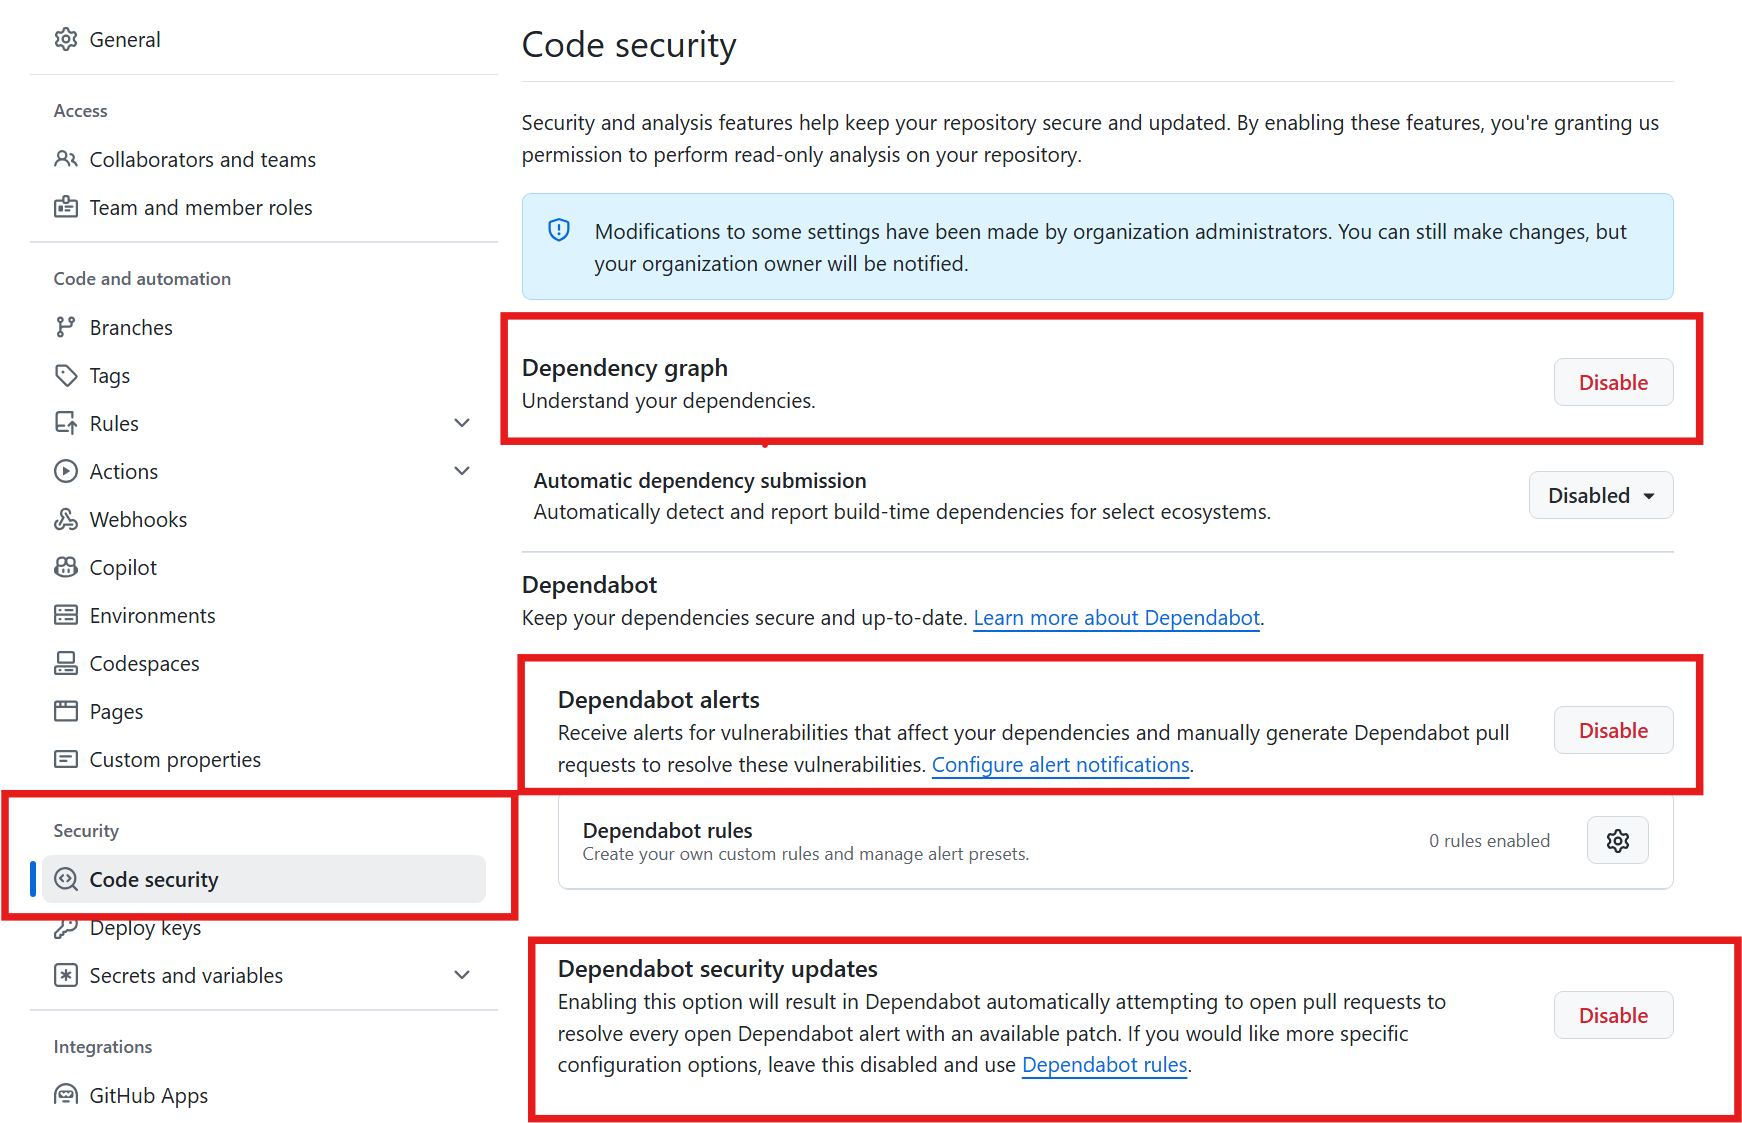
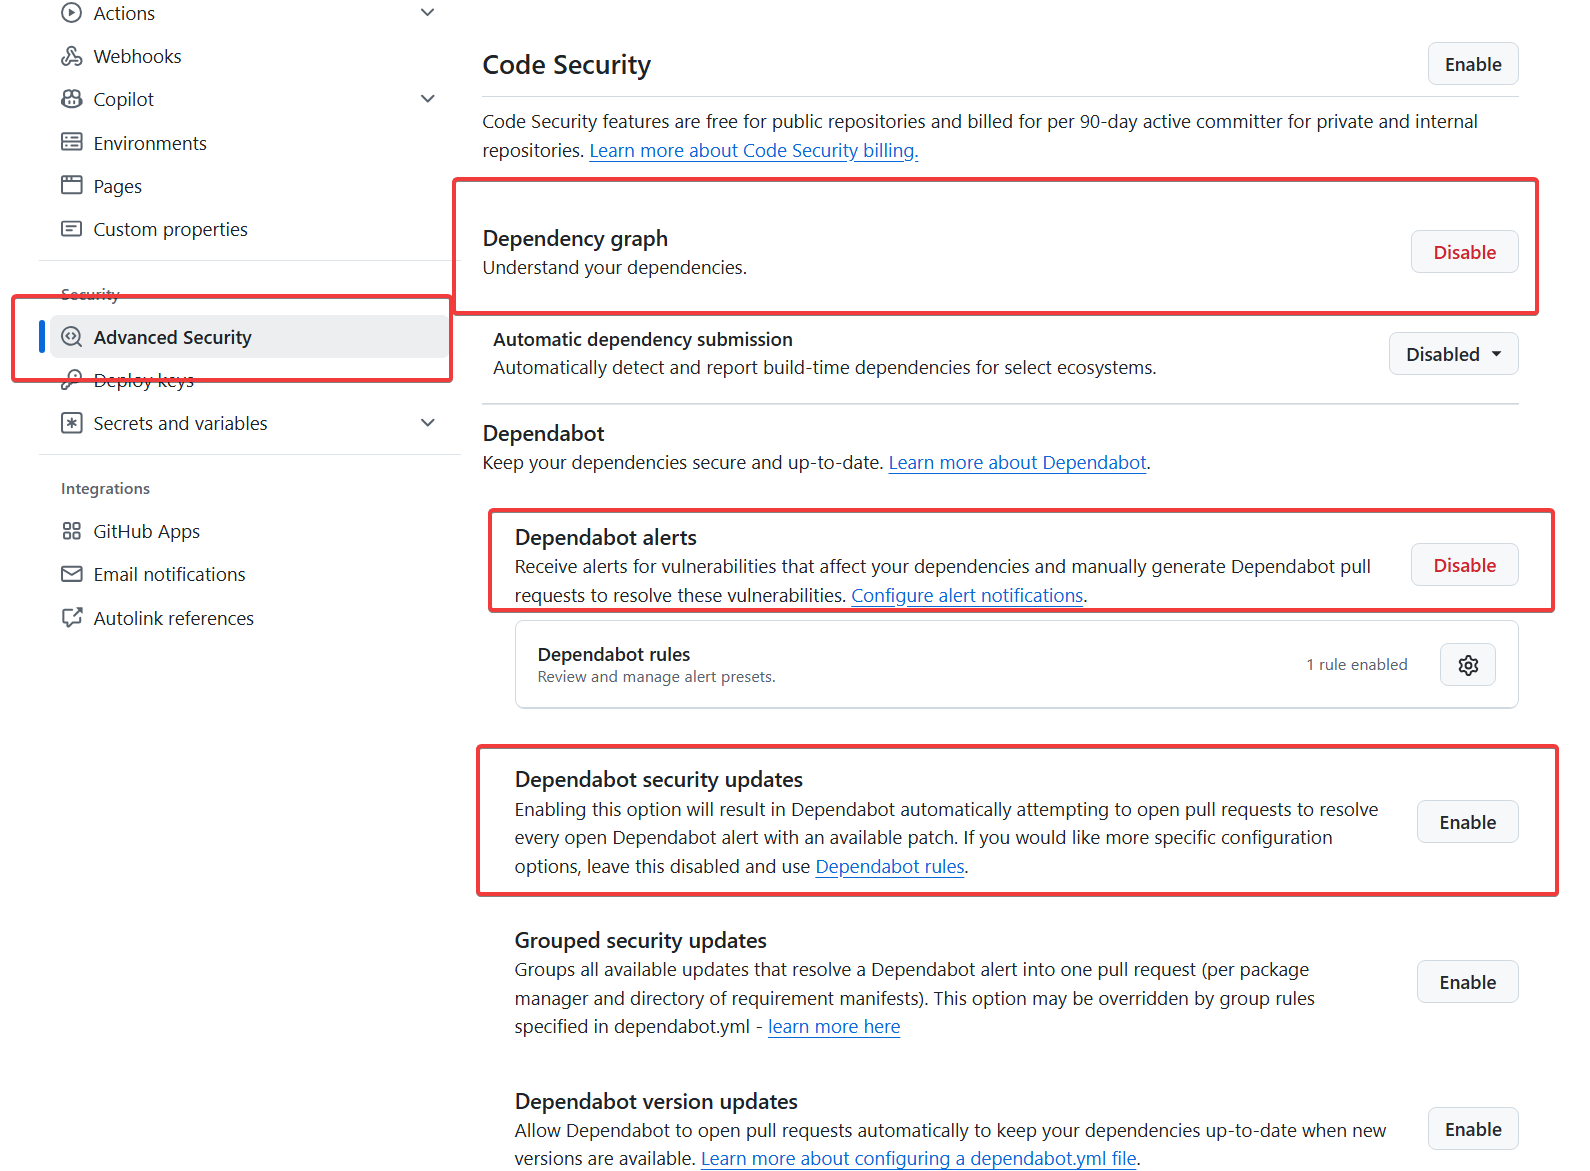
fixes to lab 1

diff --git a/_labs/lab1.md b/_labs/lab1.md
@@ -2,6 +2,9 @@
 
 Welcome! In this lab, you will be introduced to GitHub Advanced Security (GHAS) and its features. You will use the Juice Shop sample repository to enable the GHAS features, manage alerts, and learn how GitHub Advanced Security can keep vulnerabilities out of your code in the first place.
 
+> [!NOTE]
+> Please note that the screenshots provided are intended to serve as general examples. While we strive to keep all information current, some screenshots may not reflect the most recent updates, as security data is continually evolving and expanding. As a result, the content and figures you observe may differ slightly from what is shown here.
+
 <!--
 > [!TIP]
 > We recommend opening up two browser windows, one with the lab and one with the working copy of your repo!
@@ -11,11 +14,11 @@ Welcome! In this lab, you will be introduced to GitHub Advanced Security (GHAS) 
 
 In this exercise, you will create a repository with code from which you can work to test the GHAS capabilities.
 
-1. Navigate to +++https://github.com/Ignite-GHAS-Workshop/ghas-workshop-repo+++ in your browser.
+1. Navigate to +++https://github.com/Ignite-GHAS-Workshop/ghas-workshop-repo+++ in your browser. TODO: replace with correct repo
 2. Click the green **Use this template** button in the upper right corner of the page.
-3. Create a new repository in our organization by choosing Owner as **Ignite24-Labs** in the dropdown.  
+3. Create a new repository in our organization by choosing Owner in the dropdown (either personal or organization).
 4. Give the repository a unique name **my-ghas-workshop-repo-<my-unique-repo-name-here>**.  Click the green link below for inspiration on a unique repo name 😉.
-5. Make sure you switch it to visibility **Private** so your work does not conflict with other attendees!  Now click **Create repository**.
+5. Make sure you switch it to visibility to **Public** if using a personal account if using an organization check the notes in [requirements](./requirements.md) for visibility.  Now click **Create repository**.
 6. The page will refresh after a few seconds where you can now see the code we will be working with.  
 
 ## Enabling the security settings
@@ -29,8 +32,9 @@ Although Dependabot isn't part of the GitHub Advanced Security product suite, it
 Dependabot and Dependency Graph should already be turned on for your repository. If not, follow the steps below.
 
 1. We first want to turn on the security settings for the repository. Navigate to the **Settings** tab (the icon of the gear) in the repo.
-2. Click on the  **Code security** section.
-3. Ensure the Dependency Graph is enabled.  This will be indicated by a red **Disable** button.  If there is a black **Enable** button, click it to enable the **Dependency Graph** setting. To enable Dependabot, we first have to enable the Dependency Graph. This allows Dependabot to ingest your package manifest files.
+2. Click on the  **Advanced Security** section.
+3. Ensure the Dependency Graph is enabled (scroll down to **Code Security** group).  This will be indicated by a red **Disable** button.  If there is a black **Enable** button, click it to enable the **Dependency Graph** setting. To enable Dependabot, we first have to enable the Dependency Graph. This allows Dependabot to ingest your package manifest files.
+  - Note: If using a public repository you cannot disable dependency graph.
 4. Ensure the Dependabot alerts are enabled.  This will be indicated by a red **Disable** button.  If there is a black **Enable** button, click it to enable the **Dependabot alerts** setting. This feature will create alerts for vulnerable dependencies found in your repository.
 5. Click the **Enable** button next to the **Dependabot security updates** setting.
     - This will automatically create pull requests to update your vulnerable dependencies (if there is a non-vulnerable version to upgrade to).
@@ -41,16 +45,16 @@ Dependabot and Dependency Graph should already be turned on for your repository.
 ![image](./images/lab-1-1-1.png)
 </details>
 
-Once you are done turning on Dependabot features, the next thing we will need to do is turn on GitHub Advanced Security.
+Once you are done turning on Dependabot features, the next thing we will need to do is turn on GitHub Advanced Security features.
 
-### Exercise 2: Enable Advanced Security and Code Scanning
+### Exercise 2: Enable Code Security
 
 1. Next, let's enable **Code Scanning with CodeQL**. These settings are also under the **Code security** settings page.
 2. Ensure **Code Security** is enabled.  This will be indicated by a red **Disable** button.  If there is a black **Enable** button, click it to enable **Code Security**.
 3. Underneath the **Code Security | Tools** heading, click the **Set up** button in the **CodeQL analysis** row.
 
 > [!NOTE]  
-> If you do not see the **Code security** heading you have likely not created your repo in the proper Organization. Go back to the beginning of this lab and ensure you choose **Ignite24-Labs** value from the dropdown as the new repository **Owner** when you choose **Use this template**.
+> If you do not see the **Code security** heading you have likely not created your repo with Public visibility if using a personal account or in a Organization which has GitHub Advanced Security licenses. Go back to the beginning of this lab and ensure you choose the right owner or repository visibility.
 
 4. There are two options: **Default** and **Advanced**. Select the **Default** option and review the settings.
     - For this lab, we will use the **Default** setup, which creates a managed Actions workflow (i.e. you will not see a codeql.yaml file committed to the repo). You can use the Advanced option to manage your code scanning workflow as a GitHub Actions workflow YAML file committed to the repo. The **Default** option is a great option to get started quickly to enable code scanning in a repository without needing to commit any additional code.
@@ -80,13 +84,13 @@ Once you are done turning on Dependabot features, the next thing we will need to
 
 7. Optionally, configure the **Check runs failure threshold** (in **Protection Rules** section) - by default, a pull request will be blocked if there are any high or higher security alerts _once_ you configure a branch ruleset.
 
-### Exercise 3: Enable Secret Scanning
+### Exercise 3: Enable Secret Protection
 
-1. Ensure that Secret Scanning is enabled.  This will be indicated by a red **Disable** button.  If there is a black **Enable** button, click it to enable **Secret Scanning**.
+1. Ensure that Secret Protection is enabled.  This will be indicated by a red **Disable** button.  If there is a black **Enable** button, click it to enable **Secret Scanning**.
 2. Click the **Enable** button next to the **Validity checks** setting. This feature checks if the secret is still valid for [specific partners](https://docs.github.com/en/enterprise-cloud@latest/code-security/secret-scanning/introduction/supported-secret-scanning-patterns#high-confidence-patterns), such as Azure, AWS, and, of course, GitHub. As an example, you can use this feature to check if a GitHub personal access token found in the repo is still valid and needs to be revoked.
 3. Click the **Enable** button next to the **Non-provider patterns** setting. This scans for patterns that do not correspond to partners but still have a common syntax, such as a MySQL or MongoDB connection string.
 4. Check the box to **Scan for generic passwords**. This feature uses AI to find secrets/passwords that may be in your code that do not correspond to a known provider pattern.
-5. Click the **Enable** button next to the "Push protection" setting. This feature will block pushes that contain high-precision secrets. You can use this [chart](https://docs.github.com/en/enterprise-cloud@latest/code-security/secret-scanning/introduction/supported-secret-scanning-patterns#supported-secrets) to determine which types of secrets would be blocked with secret scanning push protection enabled.
+5. Click the **Enable** button next to the **Push protection** setting. This feature will block pushes that contain high-precision secrets. You can use this [chart](https://docs.github.com/en/enterprise-cloud@latest/code-security/secret-scanning/introduction/supported-secret-scanning-patterns#supported-secrets) to determine which types of secrets would be blocked with secret scanning push protection enabled.
 6. Optionally, configure **Who can bypass push protection for secret scanning**.
     - By default, as to not interrupt developers' workflows, anyone with write access to the repository can manually bypass a blocked push that contains secrets (administrators will be notified of this, and it is also captured in the audit logs).
     - In Private and internal repositories in organizations using GitHub Enterprise Cloud with GitHub Advanced Security enabled, you can change this to only allow select roles/teams (or no one) to bypass secret scanning push protection.
@@ -101,4 +105,4 @@ Once you are done turning on Dependabot features, the next thing we will need to
 
 Congrats! You have successfully enabled all of the security settings on your repository. In the next lab, we will review the alerts that have been created and how to manage them.
 
-➡ Head back to the [labs](README.md) page to continue on to the next lab.
+➡ Head to the next [lab](lab2.md).

diff --git a/_labs/requirements.md b/_labs/requirements.md
@@ -1,0 +1,20 @@
+# Requirements
+
+In order to execute this you need:
+- A modern web browser
+- A GitHub account
+- You will create a copy of the repository in your GitHub account, you can use a personal account or an organization account.
+  - If you using a personal account, make sure the repository is public and some of the exercises are not applicable.
+  - If you use an enterprise account, make sure you have the right permissions to create a repository in the organization account, if you use a internal/private repository the organization will need a GitHub Advanced Security license.
+
+# Requirements
+
+To successfully complete these exercises, please ensure you have the following:
+
+- **A modern web browser:** For the best experience and compatibility, we recommend using the latest version of your preferred browser.
+- **A GitHub account:** You will need access to a GitHub account. This can be either a personal account or an organization account
+- **Repository access and setup:**  
+  - If you are using a **personal GitHub account**, please ensure that the repository you create is set to public. Note that some exercises may not be applicable in this scenario due to feature limitations.
+  - If you are using an **enterprise or organization account**, please verify that you have the necessary permissions to create repositories within your organization. Additionally, if you choose to use an internal or private repository, your organization must have an active GitHub Advanced Security license to access all features.
+
+If you have any questions about these requirements or need assistance with setup, please consult your organization's GitHub administrator or refer to the official GitHub documentation.
